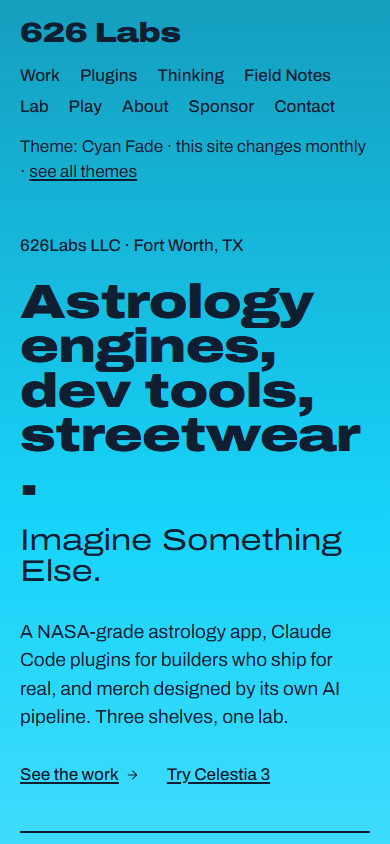
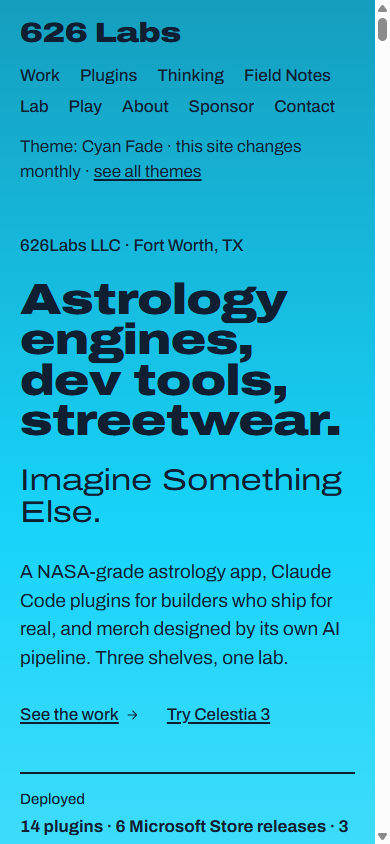
fix(cyan-fade): keep the period of streetwear. on its line at 390
The phone clamp was the sheet's 48px; this h1 carries the tagline block
inside it and the period fell onto a fifth line. 42px at 375 holds it at
four lines, verified in Chromium: no horizontal scroll, four line boxes.

diff --git a/themes/cyan-fade/archetypes/home.html b/themes/cyan-fade/archetypes/home.html
@@ -1059,9 +1059,10 @@
       .wrap { padding: 0 20px; }
       .masthead { padding-top: 20px; }
       .hero { padding: 48px 0 56px; }
-      /* the expanded cut is wide: "streetwear." must fit the 350px column on
-         its own line, which it does at 48px and not at 58 */
-      .lead h1 { font-size: clamp(40px, 12.3vw, 72px); overflow-wrap: break-word; }
+      /* the expanded cut is wide: "streetwear." must fit the 335px column
+         on its own line. The sheet fit it at 48px; this h1 carries the
+         tagline block inside it and the period fell off at 48, so 42. */
+      .lead h1 { font-size: clamp(36px, 11.2vw, 72px); overflow-wrap: break-word; }
       .hero-meta { grid-template-columns: 1fr; }
       article.product { grid-template-columns: 2.4em minmax(0, 1fr); padding: 16px 0 18px; gap: 6px 14px; }
       article.product::before { grid-row: 1; }
